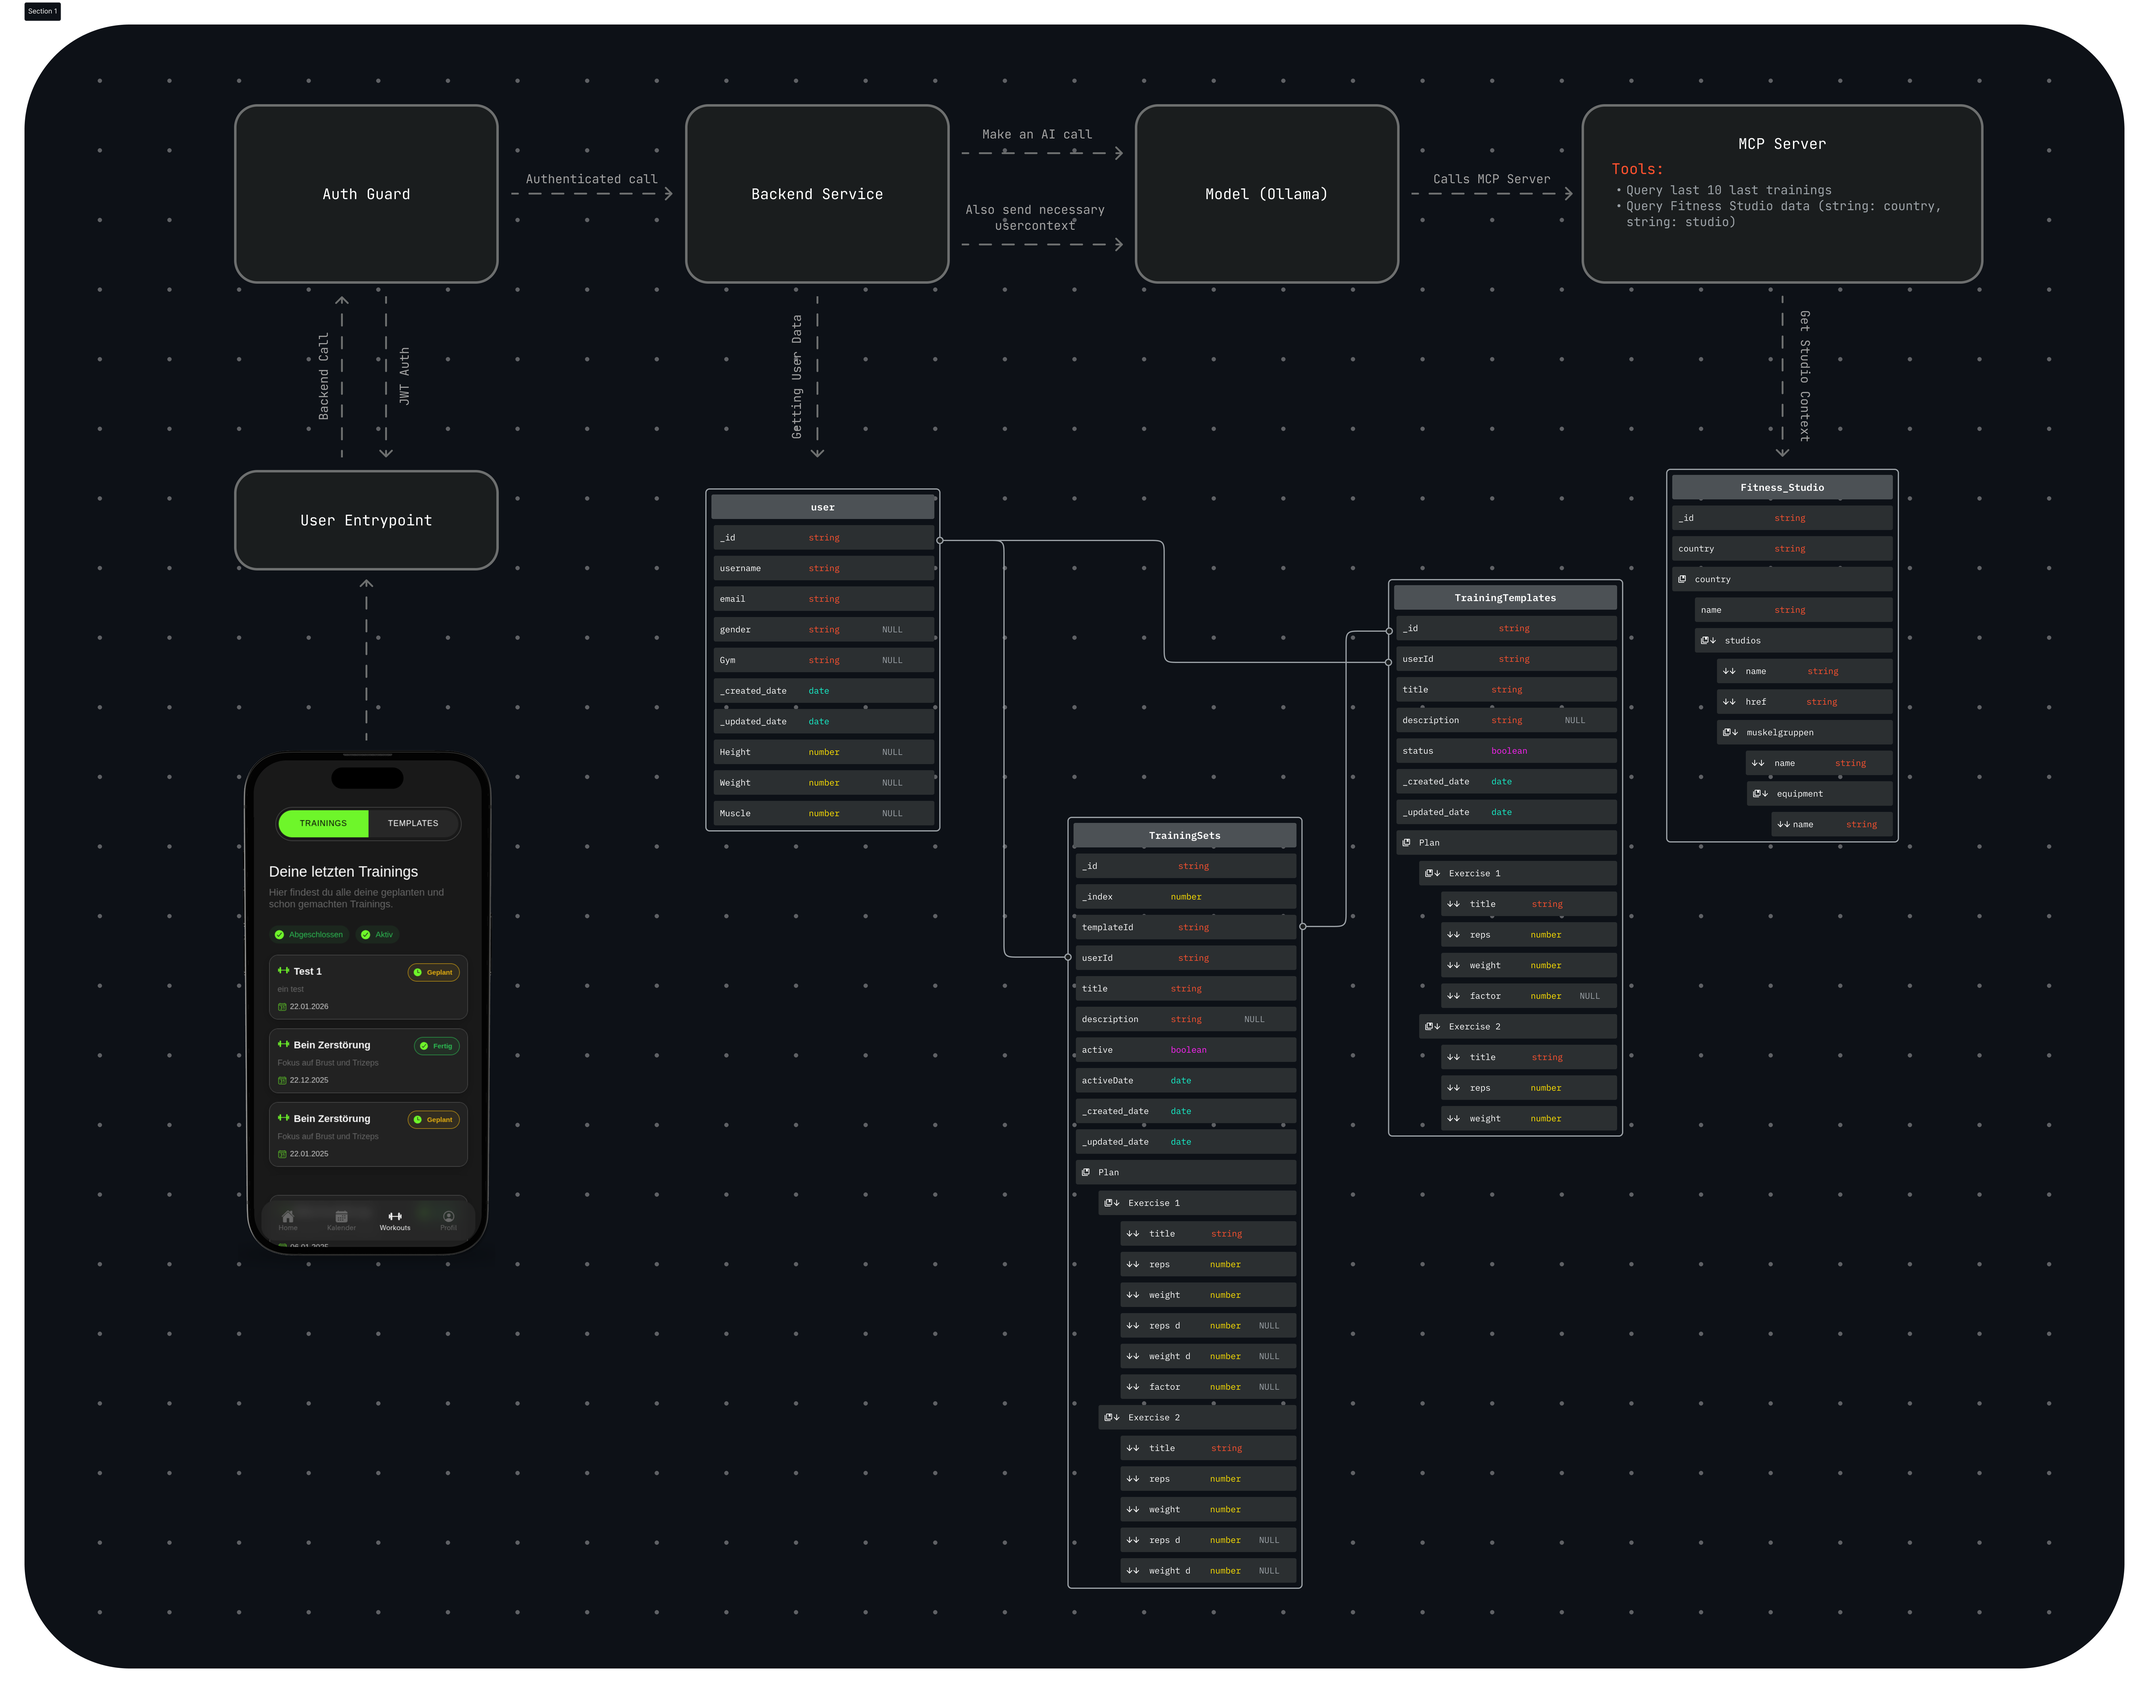
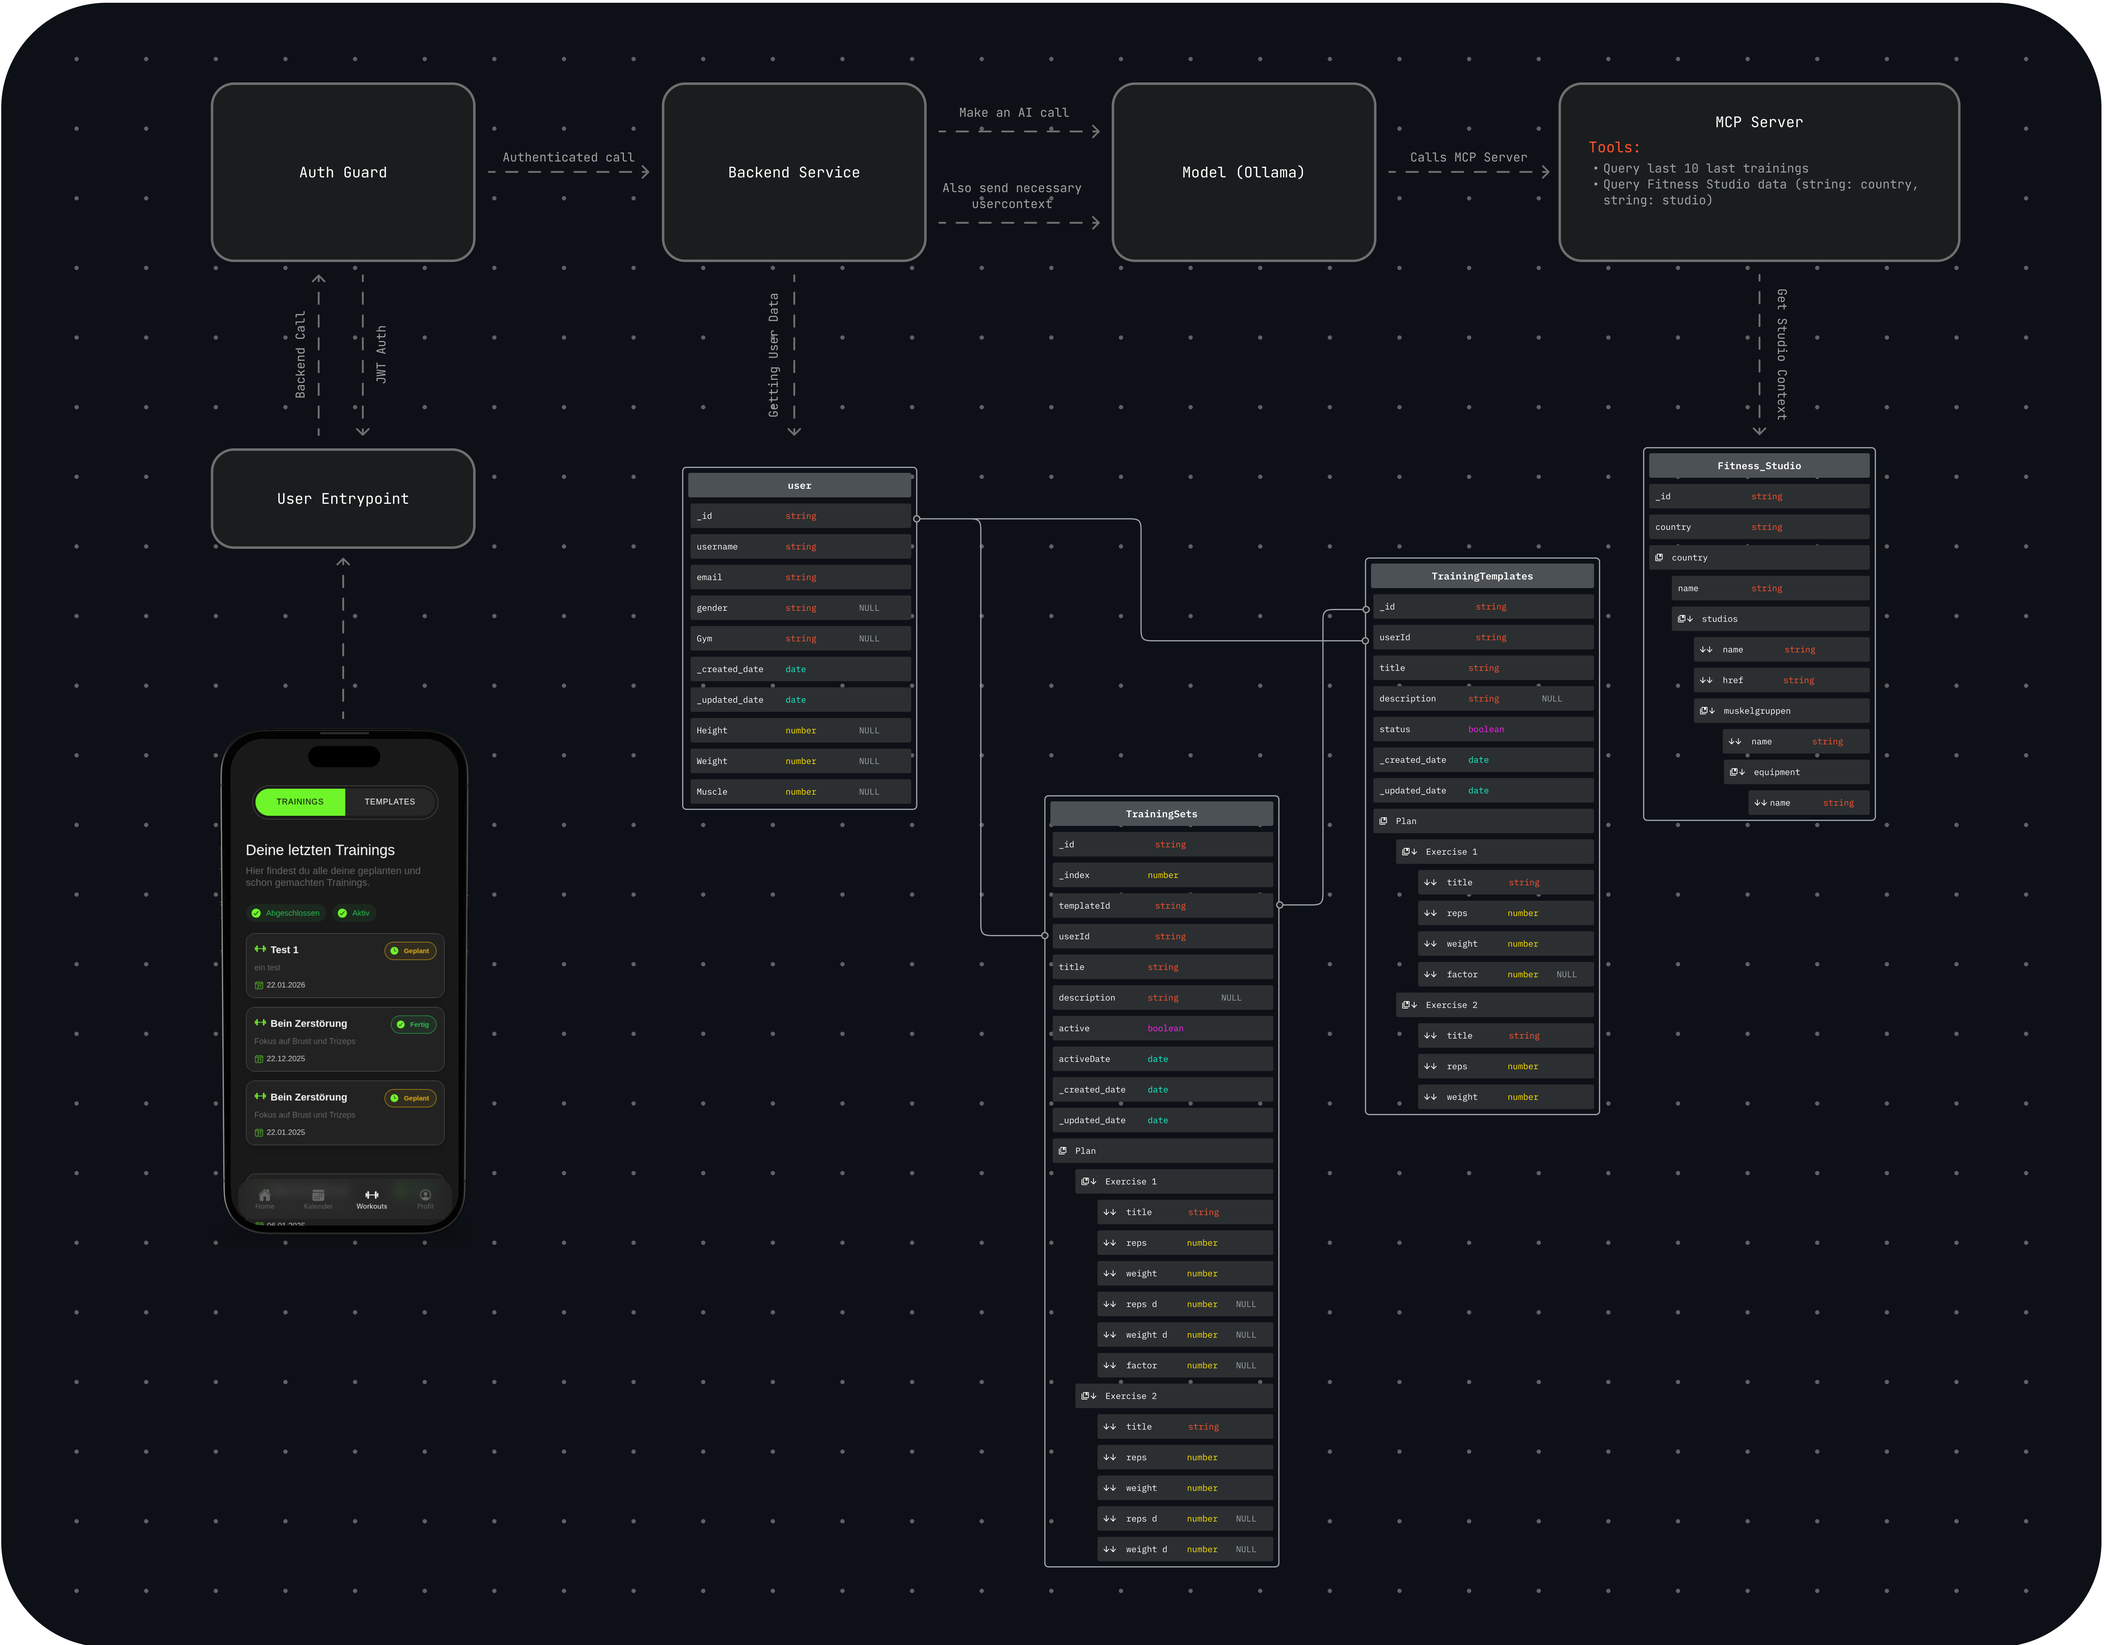
added new Readme and updated dockercompose

diff --git a/README.md b/README.md
@@ -1,31 +1,100 @@
 # Gymetrics Backend
 
-Minimal NestJS backend for Gymetrics (user, auth, training, and template APIs).
+Self-hosted fitness Tracker + AI assistant.
 
 ## Quickstart
 
 Requirements:
-- Node.js (>= 20), npm
 - Docker & Docker Compose
-
-Install:
-```sh
-npm install
-```
-
-Run locally (development):
-```sh
-npm run start:dev
-```
-
-Or with Docker:
-```sh
-docker-compose up -d --build
-```
 
 System Architecture
 ![Picture of System Architecture](./ressources/architecture_gymetrics.png)
 
-Configuration via [.env](.env). Key variables: `MONGODB_URI`, `JWT_SECRET`, `JWT_REFRESH`, `ROOT_USERNAME`, `ROOT_PASSWORD`.
+## Docker Compose example Configuration
 
-Swagger (API docs) available at `/api` (see [src/main.ts](src/main.ts)).
+```yaml
+version: '3.8'
+
+services:
+  mongodb:
+    image: mongo:7.0.40
+    container_name: gymetrics-mongo
+    environment:
+      - MONGO_INITDB_ROOT_USERNAME=${DATABASE_ROOT_USERNAME}
+      - MONGO_INITDB_ROOT_PASSWORD=${DATABASE_ROOT_PASSWORD}
+      - APP_USERNAME=${APP_USERNAME}
+      - APP_PASSWORD=${APP_PASSWORD}
+      - APP_DATABASE=${APP_DATABASE}
+    volumes:
+      - ${DATA_PATH}:/data/db
+      - ./backend/mongo-init.sh:/docker-entrypoint-initdb.d/mongo-init.sh:ro
+    restart: always
+    networks:
+      - mongodb_network
+
+  backend:
+    build: 
+      context: ./backend
+    container_name: gymetrics-backend
+    environment:
+      - MONGODB_URI=mongodb://${APP_USERNAME}:${APP_PASSWORD}@mongodb:27017/${APP_DATABASE}?authSource=${APP_DATABASE}
+      - JWT_SECRET=${JWT_SECRET}
+      - JWT_REFRESH=${JWT_REFRESH}
+      - LOG_LEVEL=error
+    ports:
+      - 3000:3000
+    expose:
+      - 3000
+    depends_on:
+      - mongodb
+    networks:
+      - mongodb_network
+    restart: always
+
+  python-scraper:
+    build: 
+      context: ./scrapeService
+    container_name: gymetrics-scraper
+    environment:
+      - SCRAPER_API_KEY=${SCRAPER_API_KEY}
+    expose:
+      - 5000
+    networks:
+      - mongodb_network
+    restart: always
+
+networks:
+  mongodb_network:
+    driver: bridge
+```
+
+## Environment Configuration
+
+Create `.env` from this template:
+
+```bash
+# DATA STORAGE PATH
+DATA_PATH=/opt/gymetrics/data
+
+# DATABASE CONFIGURATION
+DATABASE_ROOT_USERNAME=admin
+DATABASE_ROOT_PASSWORD=change-this-secure-password
+
+APP_USERNAME=gymetrics_user
+APP_PASSWORD=change-this-secure-password
+
+APP_DATABASE=gymetrics
+
+# AUTHENTICATION
+JWT_SECRET=your-random-jwt-secret-key
+JWT_REFRESH=your-random-refresh-token-key
+
+# SCRAPER
+SCRAPER_API_KEY=your-random-scraper-key
+```
+
+## API Documentation
+
+Interactive API docs available at:
+- **Swagger UI:** `http://localhost:3000/api`
+- **Backend API:** `http://localhost:3000`
